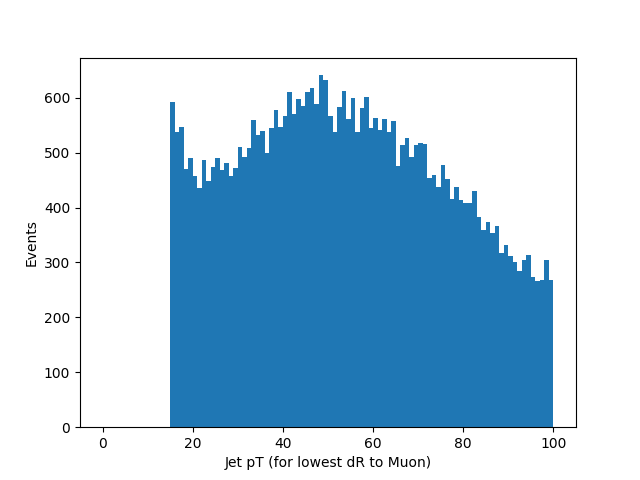
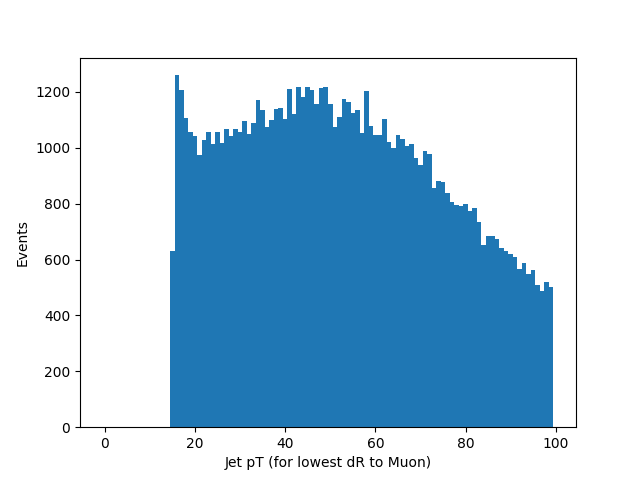
Updated n00dle.py to take arbitrary file arguments, and wrote a histogram object

diff --git a/n00dle.py b/n00dle.py
@@ -18,95 +18,139 @@ import matplotlib.pyplot as plt
 import pandas as pd
 import itertools as it
 
+class hist:
+    def __init__(s,size,bounds):
+        s.size = size
+        s.bounds = bounds
+        s.hs = [plt.hist([],size,bounds)[0],plt.hist([],size,bounds)[1]]
+
+    ## Adds the values of a passed histogram to the class's plot
+    def add(s,inplot):
+        if (len(inplot[0]) != len(s.hs[0])) or (len(inplot[1]) != len(s.hs[1])):
+            raise Exception('Mismatch between passed and stored histogram dimensions')
+        s.hs[0] = s.hs[0] + inplot[0]
+
+    ## Fills the stored histogram with the supplied values
+    def fill(s,vals):
+        s.hs[0] = s.hs[0] + plt.hist(vals,s.size,s.bounds)[0]
+
+
+    def make(s,logv=False):
+        return plt.hist(s.hs[1][:s.size],s.size,s.bounds,weights=s.hs[0],log=logv)
+
 def inc(var):
     return var+1
 
-def mc():
-    f = uproot.open('GGH.root')
-    events = f.get('Events')
-    pdgid = events.array('GenPart_pdgId')
-    parid = events.array('GenPart_genPartIdxMother')
-    outlist = []
-    for event in range(pdgid.size):
-        for iGen in range(pdgid[event].size):
-            if (abs(pdgid[event][iGen]) == 5) or (abs(pdgid[event][iGen] == 7)):
-                parentIdx = parid[event][iGen]
-                if parentIdx == -1: continue
-                parentId = pdgid[event][parentIdx]
-                if abs(parentId) == 9000006:
-                    outlist.append(36)
-                else:
-                    outlist.append(parentId)
-    plot = plt.hist(outlist,40,(-0.5,39.5),log=True)
+def mc(files):
+    pdgplt = hist(40,(-0.5,39.5))
+    plt.figure(1)
+    for fnum in range(len(files)):
+        print('Opening '+files[fnum])
+        f = uproot.open(files[fnum])
+        events = f.get('Events')
+        pdgid = events.array('GenPart_pdgId')
+        parid = events.array('GenPart_genPartIdxMother')
+        print('Processing ' + str(len(pdgid)) + ' events')
+        outlist = []
+        for event in range(pdgid.size):
+            for iGen in range(pdgid[event].size):
+                if (abs(pdgid[event][iGen]) == 5) or (abs(pdgid[event][iGen] == 7)):
+                    parentIdx = parid[event][iGen]
+                    if parentIdx == -1: continue
+                    parentId = pdgid[event][parentIdx]
+                    if abs(parentId) == 9000006:
+                        outlist.append(36)
+                    else:
+                        outlist.append(parentId)
+        
+        pdgplt.fill(outlist)
     
+    plt.clf()  
+    pdgplt.make(logv=True) 
     plt.xlabel('Parent PdgId')
     plt.ylabel('Number of b Children')
     plt.savefig('upplots/parents.png')
-    #plt.show()
-    plt.clf()
-    #sys.exit()
-    #return plot
+    plt.show()
+    sys.exit()
 
-def jets():
-    ## Open our file and grab the events tree
-    f = uproot.open('NMSSM-20.root')#'nobias.root')
-    events = f.get('Events')
-    ## Pick relevant branches into dataframes so we can work with them. We shift our indexes to avoid having a 0th jet.
-    # This is a more compact form of
-    # a = events.array('Branch')
-    # b = pd.DataFrame(a)
-    # c = b.rename(colums=inc)
-    ## 
-    mueta = pd.DataFrame(events.array('Muon_eta')).rename(columns=inc)
-    muphi = pd.DataFrame(events.array('Muon_phi')).rename(columns=inc)
-    jeteta= pd.DataFrame(events.array('Jet_eta')).rename(columns=inc)
-    jetphi= pd.DataFrame(events.array('Jet_phi')).rename(columns=inc)
-    jetpt = pd.DataFrame(events.array('Jet_pt')).rename(columns=inc)
-    ## Figure out how many muons and jets there are
-    nmu = mueta.shape[1]
-    njet= jeteta.shape[1]
-    ## Create our result dataframe by populating its first column and naming it accordingly
-    jmudr2 = pd.DataFrame(np.power(jeteta[1]-mueta[1],2) + np.power(jetphi[1]-muphi[1],2)).rename(columns={1:'Jet 1 Mu 1'})
-    ## Loop over jet x muon combinations
-    jmustr= []
-    for j in range(1,njet+1):
-        for m in range(1,nmu+1):
-            ## Make our column name
-            jmustr.append("Jet "+str(j)+" Mu "+str(m))
-            ## Skip the 1st column since that was used to initialize the dataframe
-            if (j+m==2):
-                continue
-            ## Compute and store the dr of the given muon and jet for every event at once
-            jmudr2[jmustr[-1]] = pd.DataFrame(np.power(jeteta[j]-mueta[m],2) + np.power(jetphi[j]-muphi[m],2))
-    ## Replace all values but the lowest dRs with 0s
-    jmudr2 = jmudr2[jmudr2.rank(axis=1,method='min') == 1].fillna(0)
-    ## For every entry in the table
-    for j in range(1,njet+1):
-        head= "Jet "+str(j)+" Mu 1"
-        for m in range(2,nmu+1):
-            col = "Jet "+str(j)+" Mu "+str(m)
-            ## Add Muons 2 through N to Muon 1
-            jmudr2[head]=jmudr2[head]+jmudr2[col]
-            ## Then remove Muons 2 through N
-            jmudr2=jmudr2.drop(columns=[col]) 
-        ## As we shape our dataframe to match the dimensions of jetpt, make the column names match
-        jmudr2=jmudr2.rename(columns={head:j})
-    ## Plot a jet pt array populated only by the jet in each event with the lowest dR to any muon
+def jets(files):
+    plots = {
+        "jetpT": hist(100,(-0.5,99.5)),
+        "jetdR": hist(size=100,bounds=(-0.0005,0.0995))
+    }
     plt.figure(1)
-    pts = jetpt[jmudr2>0].melt(value_name=0).drop('variable',axis=1).dropna().reset_index(drop=True)
-    ptplot = plt.hist(pts[0],100,(0,100))
+    for fnum in range(len(files)):
+        print('Opening '+files[fnum])
+        ## Open our file and grab the events tree
+        f = uproot.open(files[fnum])#'nobias.root')
+        events = f.get('Events')
+        ## Pick relevant branches into dataframes so we can work with them. We shift our indexes to avoid having a 0th jet.
+        # This is a more compact form of
+        # a = events.array('Branch')
+        # b = pd.DataFrame(a)
+        # c = b.rename(colums=inc)
+        ## 
+        mueta = pd.DataFrame(events.array('Muon_eta')).rename(columns=inc)
+        muphi = pd.DataFrame(events.array('Muon_phi')).rename(columns=inc)
+        jeteta= pd.DataFrame(events.array('Jet_eta')).rename(columns=inc)
+        jetphi= pd.DataFrame(events.array('Jet_phi')).rename(columns=inc)
+        jetpt = pd.DataFrame(events.array('Jet_pt')).rename(columns=inc)
+        print('Processing ' + str(len(mueta)) + ' events')
+        ## Figure out how many muons and jets there are
+        nmu = mueta.shape[1]
+        njet= jeteta.shape[1]
+        ## Create our result dataframe by populating its first column and naming it accordingly
+        jmudr2 = pd.DataFrame(np.power(jeteta[1]-mueta[1],2) + np.power(jetphi[1]-muphi[1],2)).rename(columns={1:'Jet 1 Mu 1'})
+        ## Loop over jet x muon combinations
+        jmustr= []
+        for j in range(1,njet+1):
+            for m in range(1,nmu+1):
+                ## Make our column name
+                jmustr.append("Jet "+str(j)+" Mu "+str(m))
+                ## Skip the 1st column since that was used to initialize the dataframe
+                if (j+m==2):
+                    continue
+                ## Compute and store the dr of the given muon and jet for every event at once
+                jmudr2[jmustr[-1]] = pd.DataFrame(np.power(jeteta[j]-mueta[m],2) + np.power(jetphi[j]-muphi[m],2))
+        ## Replace all values but the lowest dRs with 0s
+        jmudr2 = jmudr2[jmudr2.rank(axis=1,method='min') == 1].fillna(0)
+        ## For every entry in the table
+        for j in range(1,njet+1):
+            head= "Jet "+str(j)+" Mu 1"
+            for m in range(2,nmu+1):
+                col = "Jet "+str(j)+" Mu "+str(m)
+                ## Add Muons 2 through N to Muon 1
+                jmudr2[head]=jmudr2[head]+jmudr2[col]
+                ## Then remove Muons 2 through N
+                jmudr2=jmudr2.drop(columns=[col]) 
+            ## As we shape our dataframe to match the dimensions of jetpt, make the column names match
+            jmudr2=jmudr2.rename(columns={head:j})
+        ## Plot a jet pt array populated only by the jet in each event with the lowest dR to any muon
+        pts = jetpt[jmudr2>0].melt(value_name=0).drop('variable',axis=1).dropna().reset_index(drop=True)
+        plots['jetpT'].fill(pts[0])
+        #plt.xlabel('Jet pT (for lowest dR to Muon)')
+        #plt.ylabel('Events')
+        #plt.savefig('upplots/JetdRpT.png')
+        #plt.clf()
+        pts = jmudr2[jmudr2!=0].melt(value_name=0).drop('variable',axis=1).dropna().reset_index(drop=True)
+        plots['jetdR'].fill(pts[0])
+    #
+    plt.clf()
+    ptplot = plots['jetpT'].make()
     plt.xlabel('Jet pT (for lowest dR to Muon)')
     plt.ylabel('Events')
     plt.savefig('upplots/JetdRpT.png')
+    plt.show()
+    #
+    plt.figure(2)
     plt.clf()
-    pts = jmudr2[jmudr2!=0].melt(value_name=0).drop('variable',axis=1).dropna().reset_index(drop=True)
-    drplot = plt.hist(pts[0],100,(0,.1),log=True)
+    drplot = plots['jetdR'].make(logv=True)
     plt.xlabel('Lowest dR between any Jet and Muon')
     plt.ylabel('Events')
     plt.savefig('upplots/JetMudR.png')
-    #plt.show()
-    plt.clf()
-    #sys.exit()
+    plt.show()
+    #plt.clf()
+    sys.exit()
     ## Isolate the lowest DR for each event, clean it by dumping it to a list, then cycle it back into a dataframe.
     # This is equivalent to writing
     # mask = [a.rank(axis=1, method='min) == 1]
@@ -121,40 +165,75 @@ def jets():
     #jmudr2 = jmudr2.set_index(jmudr2[0]).drop(columns=[0])       
     #jets = jmudr2[1].str.split(n = 3, expand=True)[1]
 
-def trig():
-    f = uproot.open('Parked.root')#'nobias.root')
-    events = f.get('Events')
-    muon_pt = pd.DataFrame(events.array('Muon_pt'))
-    muon_sip = pd.DataFrame(events.array('Muon_sip3d'))
-    ## It's important to pick a trigger that was actually used for the data
-    trig = pd.DataFrame(events.array('HLT_Mu9_IP5_part0'))
-    ## Cut pT to only muons with SIP > 8
-    muon_pt = muon_pt[muon_sip>8]
-    ## Melt down the muon_pt array into a 1D list to plot
-    pts = muon_pt.melt(value_name=0).drop('variable',axis=1).dropna().reset_index(drop=True)
-    ## Create the two histograms we want to divide
+def trig(files):
+    plots = {
+        'hltplot':  hist(100,(-0.5,99.5)),
+        'ptplot':   hist(100,(-0.5,99.5))
+    }
     plt.figure(1)
-    ptplot = plt.hist(pts[0],100,(0,100))
-    hltplot = plt.hist(pts[trig][0],100,(0,100))
-    plt.clf()
+    for fnum in range(len(files)):
+        print('Opening '+files[fnum])
+        f = uproot.open(files[fnum])
+        events = f.get('Events')
+        muon_pt = pd.DataFrame(events.array('Muon_pt'))
+        muon_sip = pd.DataFrame(events.array('Muon_sip3d'))
+        print('Processing ' + str(len(muon_pt)) + ' events')
+        ## It's important to pick a trigger that was actually used for the data
+        trig = pd.DataFrame(events.array('HLT_Mu9_IP5_part0'))
+        ## Cut pT to only muons with SIP > 8
+        muon_pt = muon_pt[muon_sip>8]
+        ## Melt down the muon_pt array into a 1D list to plot
+        pts = muon_pt.melt(value_name=0).drop('variable',axis=1).dropna().reset_index(drop=True)
+        ## Create the two histograms we want to divide
+        plt.figure(1)
+        plots['ptplot'].fill(pts[0])
+        plots['hltplot'].fill(pts[trig][0])
     ## Pick out the bin values from the plotted histos and divide them
-    ws=np.divide(hltplot[0],ptplot[0], where=ptplot[0]!=0)
+    ptplotf = plots['ptplot'].make()
+    hltplotf = plots['hltplot'].make()
+    ws=np.divide(hltplotf[0],ptplotf[0], where=ptplotf[0]!=0)
     ## Empty bins should have a weight of 0
     ws[np.isnan(ws)] = 0
     ## Plot the histogram bins weighted with the result of the ratio
-    ratioplot = plt.hist(ptplot[1][:100],100,(0,100),weights=ws)
+    plt.clf()
+    ratioplot = plt.hist(ptplotf[1][:100],100,(0,100),weights=ws)
     
     plt.xlabel('Muon pT')
     plt.ylabel('HLT_Mu9_IP5_part0 trigger frequency at SIP>8')
     plt.savefig('upplots/TrigRatio.png')
-    #plt.show()
-    plt.clf()
-    #sys.exit()
+    plt.show()
+    sys.exit()
 
 def main():
-    mc()
-    jets()
-    trig()
+    if (len(sys.argv) > 1): 
+        ## Check for file sources
+        if '-f' in sys.argv:
+            idx = sys.argv.index('-f')+1
+            files = []
+            for i in sys.argv[idx:]:
+                files.append(i)
+        elif '-l' in sys.argv:
+            with open(sys.argv[2],'r') as rfile:
+                for line in rfile:
+                    files.append(line.strip('\n')) 
+        else:
+            files.append('Parked.root')
+        ## Check specified run mode
+        if sys.argv[1] == '-mc':
+            mc(files)
+        elif sys.argv[1] == '-jets':
+            jets(files)
+        elif sys.argv[1] == '-trig':
+            trig(files)
+ 
+    print("Expected n00dle.py <switch> (flag) (target)")
+    print("-----switches-----")
+    print("-mc    Runs a b-parent analysis on MC")
+    print("-jets  Analyzes jet/muon dR and pT")
+    print("-trig  Analyzes trigger efficiency for data")
+    print("---optional flags--")
+    print("-f     Targets a specific file to run over")
+    print("-l     Specifies a list containing all files to run over")
     sys.exit(0)
     
 
